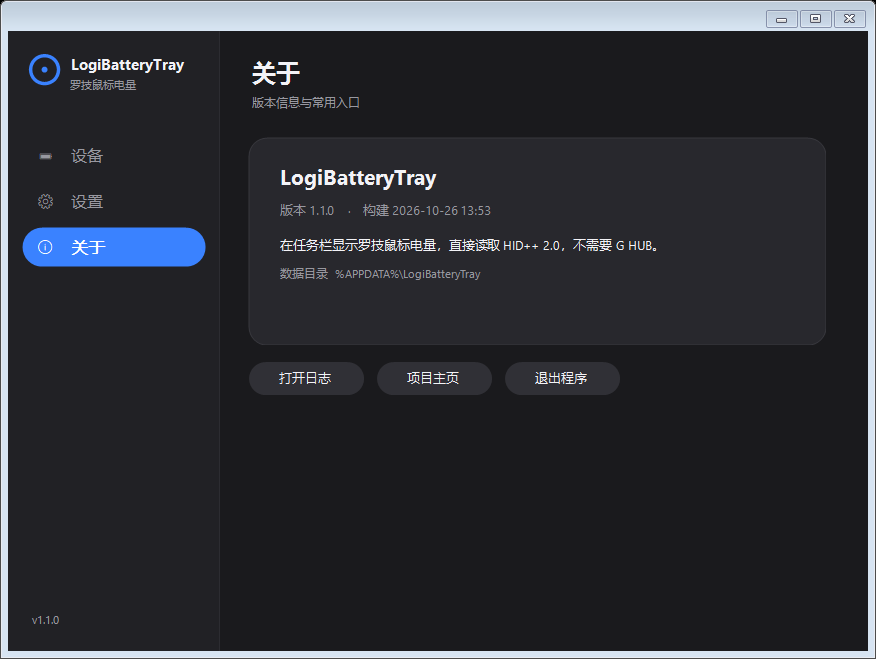
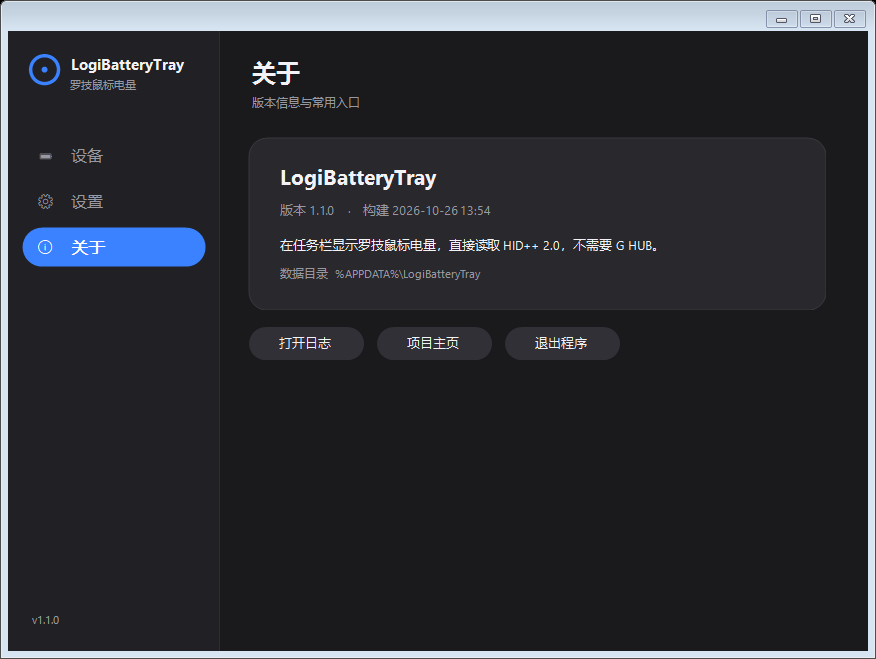
Size the about card to its content

Changed region(s): [[0.2774, 0.5159, 0.7089, 0.607], [0.524, 0.3035, 0.5548, 0.3338]]

diff --git a/src/LogiBatteryTray/MainForm.cs b/src/LogiBatteryTray/MainForm.cs
@@ -635,10 +635,11 @@ internal sealed class MainForm : Form, IMessageFilter
             @"数据目录  %APPDATA%\LogiBatteryTray",
             8.5f, FontStyle.Regular, _secondary);
 
-        _ = data;
+        // 卡片高度按实际内容撑开
+        card.Height = (int)(data.Bottom + S(24));
 
         // 按钮行
-        float buttonsY = y + S(224);
+        float buttonsY = card.Bottom + S(16);
 
         var log = MakeButton(28, buttonsY, "打开日志", S(116));
         log.Parent = page.Content;
